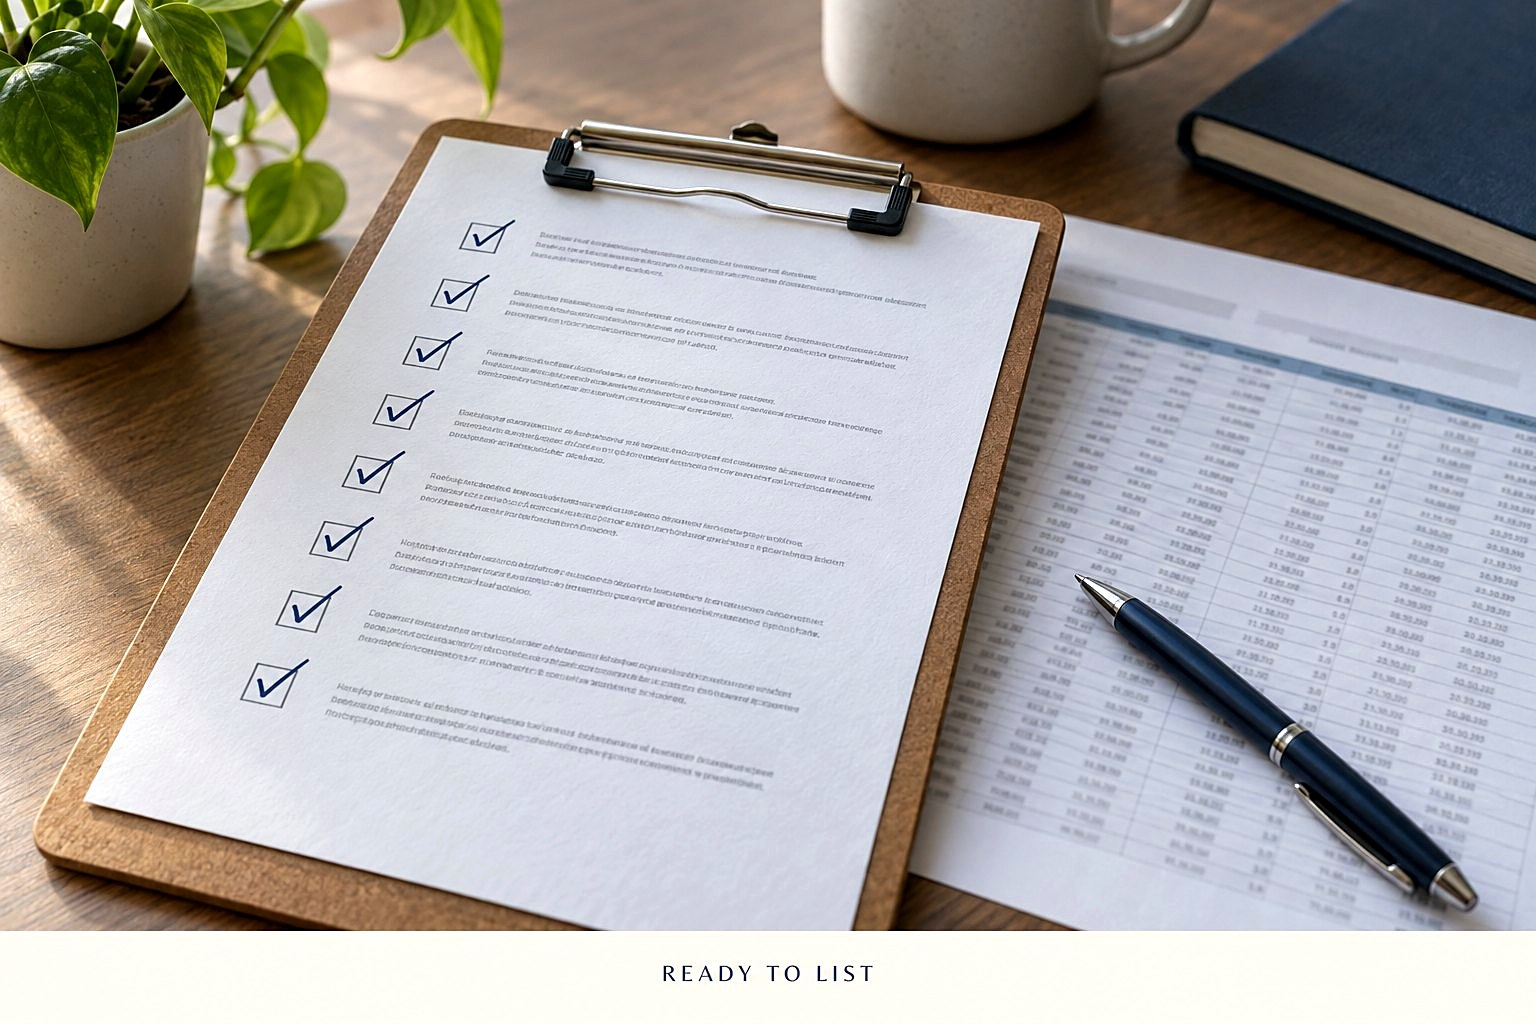
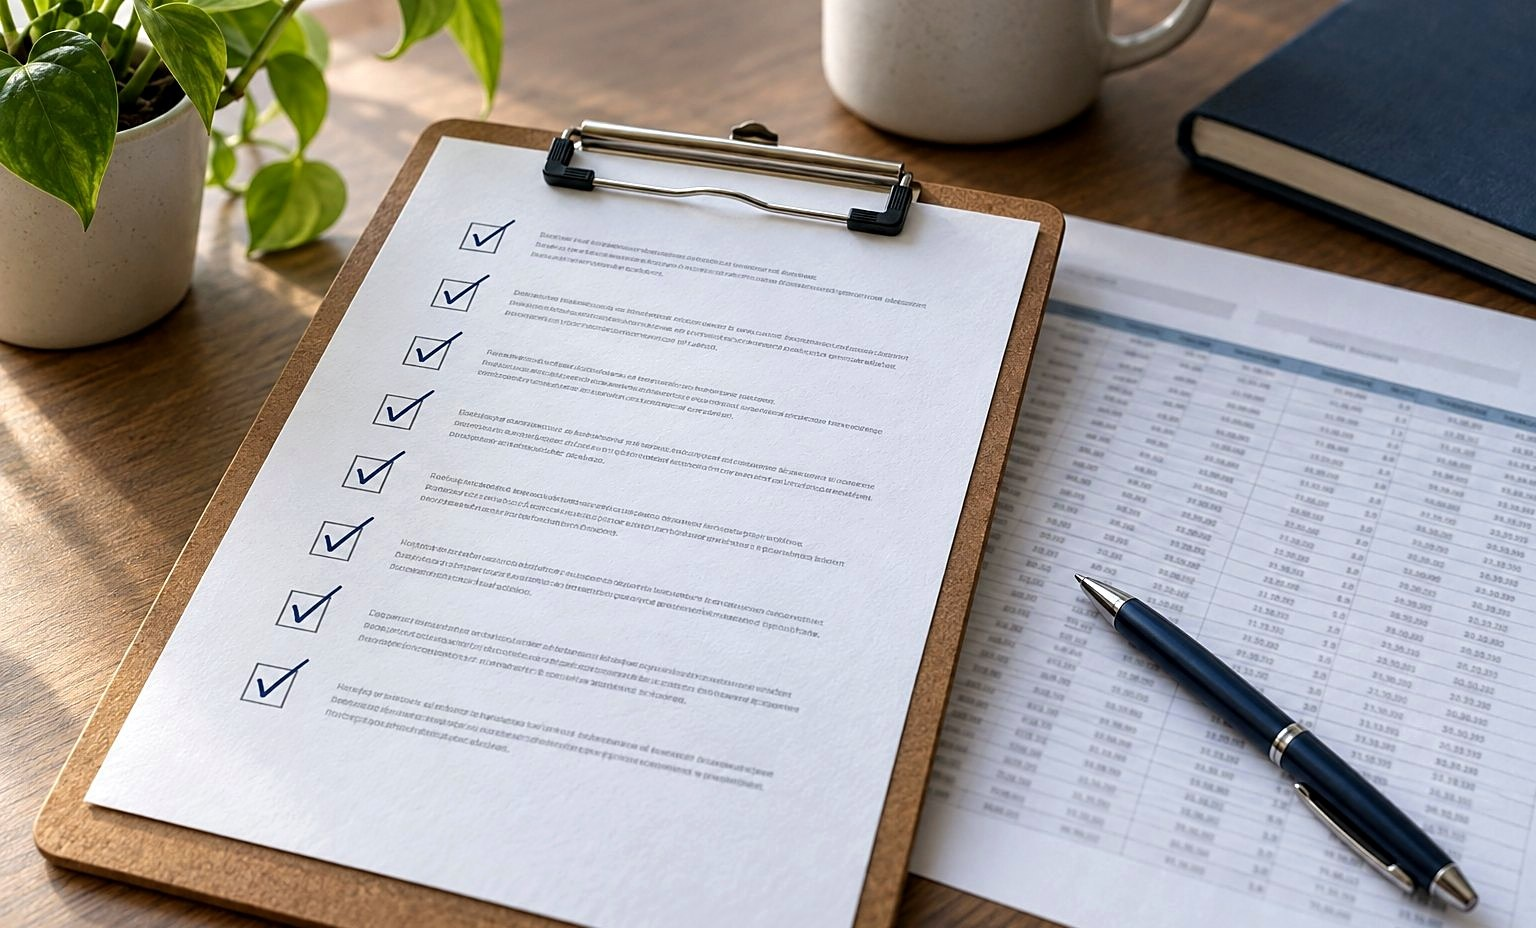
Drop the baked caption on the Exit service photo
Remove the "READY TO LIST" caption bar from the Exit body image: baked-in
text is uneditable, unreadable to search and screen readers, and went
stale when the page broadened past a sale. Crop to a clean photo and let
the editable figcaption carry the line, matching how the NOI and Refinance
images work. Caption updated to "The file every exit runs on."

206 tests pass; build clean.

diff --git a/src/content/services/sale.md b/src/content/services/sale.md
@@ -5,8 +5,8 @@ description: Exit strategy for a DC apartment building. Weigh an outright sale, 
 pillar: sale
 headerImage: ../../assets/services/sale.jpg
 bodyImage: ../../assets/services/body/sale.jpg
-bodyAlt: "A clipboard checklist with every box ticked beside a rent roll, captioned ready to list"
-bodyCaption: "The deal-killer list, cleared before you list."
+bodyAlt: "A clipboard checklist with every box ticked beside a rent roll of apartment financials"
+bodyCaption: "The file every exit runs on."
 headerAlt: "A well-kept three-story brick apartment building at golden hour, hedges trimmed and railings freshly painted"
 faq:
   - question: What are my options besides selling outright?
